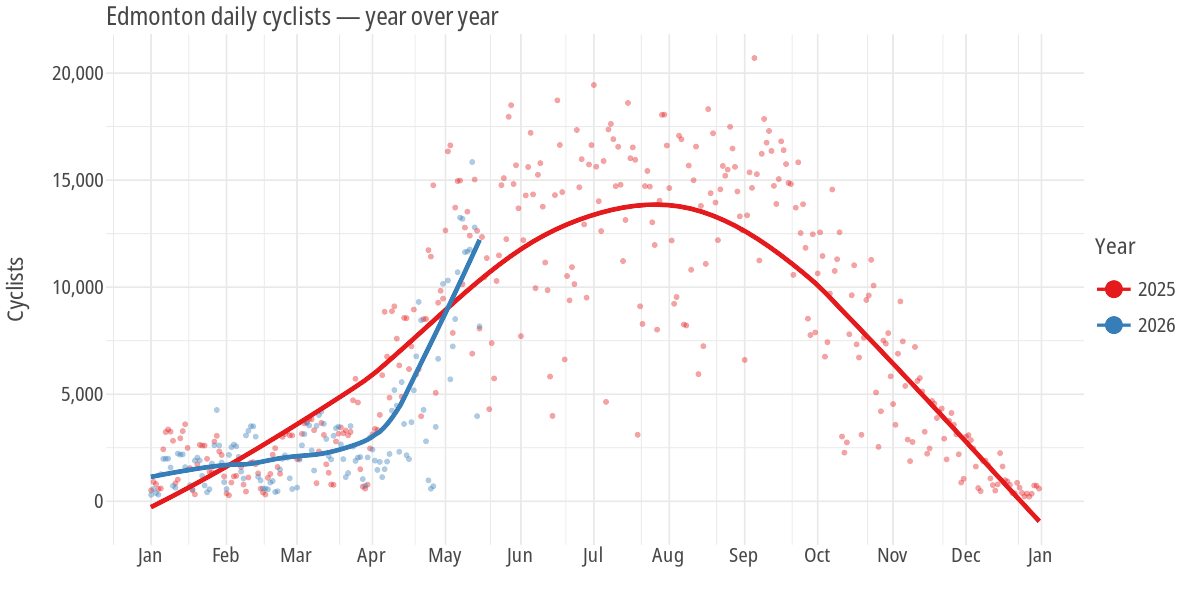
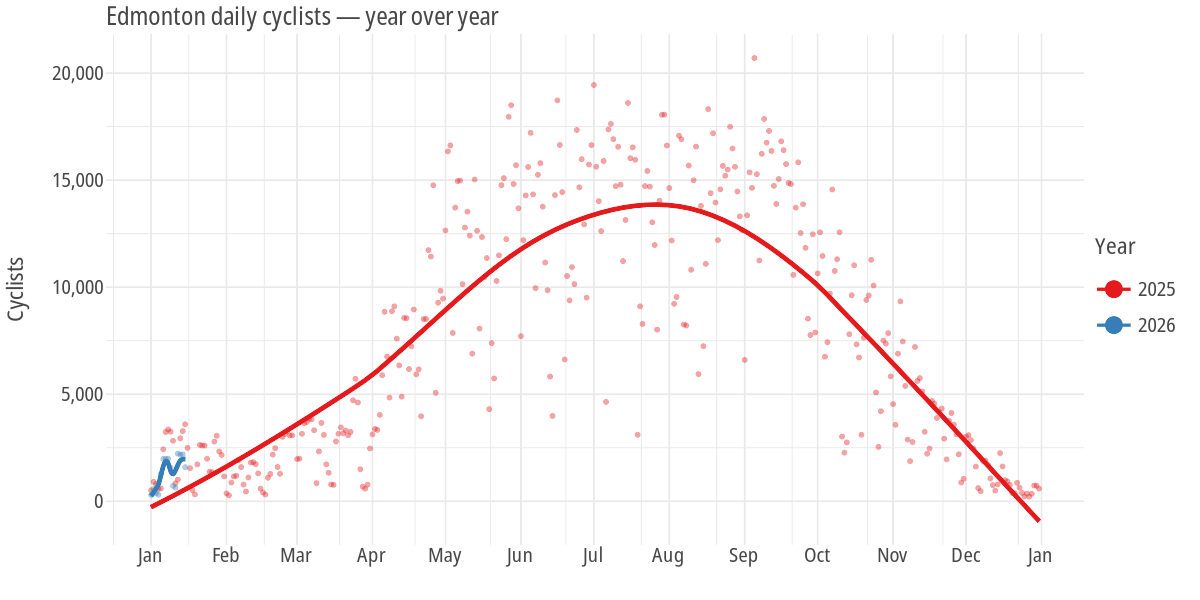
add retries

Changed region(s): [[0.1233, 0.36, 0.4008, 0.84]]

diff --git a/bot.py b/bot.py
@@ -9,6 +9,8 @@ import click
 import polars as pl
 import requests
 from atproto import Client, models
+from requests.adapters import HTTPAdapter
+from urllib3.util.retry import Retry
 from dotenv import load_dotenv
 from lets_plot import (
     aes,
@@ -34,6 +36,16 @@ EXCLUDED_LOCATIONS = {
 
 BSKY_POST_LIMIT = 300
 
+_retry = Retry(
+    total=3,
+    backoff_factor=5,
+    status_forcelist=[500, 502, 503, 504],
+    allowed_methods=["GET"],
+)
+SESSION = requests.Session()
+SESSION.mount("https://", HTTPAdapter(max_retries=_retry))
+SESSION.mount("http://", HTTPAdapter(max_retries=_retry))
+
 
 def get_yesterday():
     return (datetime.now(EDMONTON_TZ) - timedelta(days=1)).date()
@@ -52,11 +64,11 @@ def fetch_bike_counts(target_date):
         " GROUP BY `counter_location_description`"
         " LIMIT 200"
     )
-    resp = requests.get(
+    resp = SESSION.get(
         "https://data.edmonton.ca/api/v3/views/tq23-qn4m/query.json",
         params={"query": query},
         auth=auth,
-        timeout=30,
+        timeout=120,
     )
     resp.raise_for_status()
 
@@ -86,11 +98,11 @@ def fetch_daily_totals(start_date, end_date):
     key_id = os.environ.get("SOCRATA_KEY_ID")
     key_secret = os.environ.get("SOCRATA_KEY_SECRET")
     auth = (key_id, key_secret) if key_id and key_secret else None
-    resp = requests.get(
+    resp = SESSION.get(
         "https://data.edmonton.ca/api/v3/views/tq23-qn4m/query.json",
         params={"query": query},
         auth=auth,
-        timeout=60,
+        timeout=120,
     )
     resp.raise_for_status()
     result = []
@@ -140,7 +152,7 @@ def generate_trend_chart(this_year_data, last_year_data, target_date):
 def fetch_weather(target_date):
     date_str = target_date.strftime("%Y-%m-%d")
     try:
-        resp = requests.get(
+        resp = SESSION.get(
             "https://archive-api.open-meteo.com/v1/archive",
             params={
                 "latitude": 53.5461,
